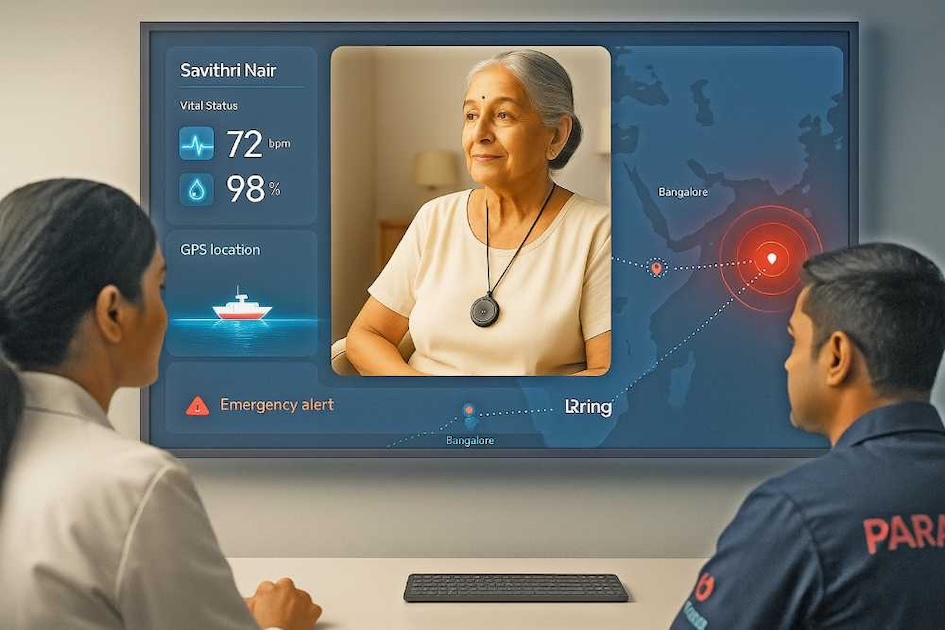
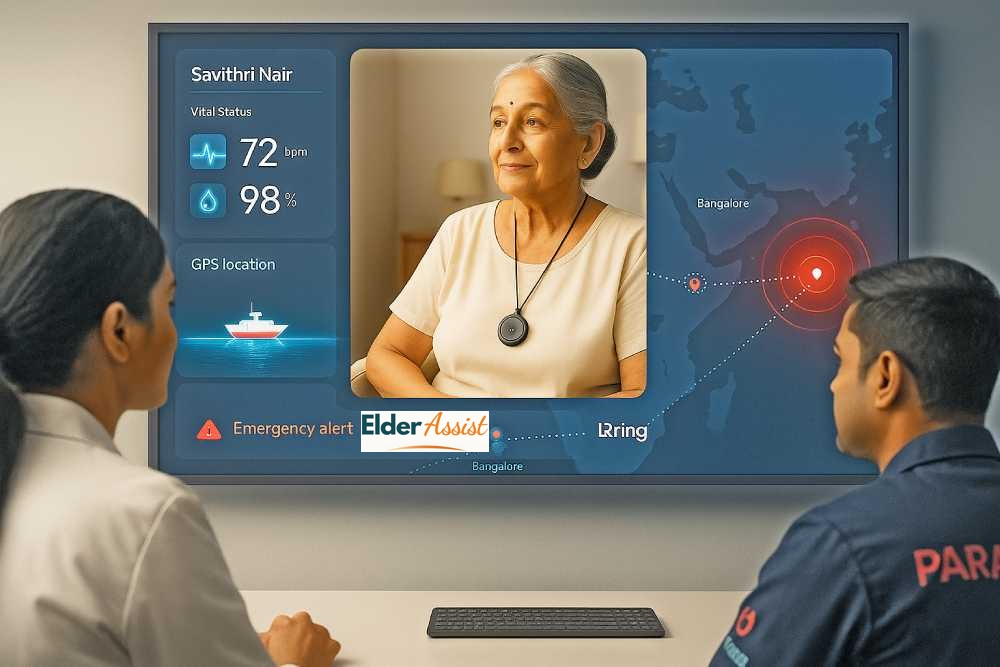
Fix: website page and images

diff --git a/wellnest/www/index.html b/wellnest/www/index.html
@@ -28,7 +28,7 @@
           <div
             class="item slider-four__slide-2"
             style="
-              background-image: url(assets/wellnest/images/main-slider/main-slider-2-1.jpg);
+              background-image: url('assets/wellnest/images/background/page-header-doctor-at-home.jpg');
             "
           >
             <div class="container">
@@ -40,7 +40,7 @@
           <div
             class="item slider-four__slide-3"
             style="
-              background-image: url(assets/wellnest/images/main-slider/main-slider-2-2.jpg);
+              background-image: url(assets/wellnest/images/background/page-header-hospice-care.jpg);
             "
           >
             <div class="container">
@@ -52,7 +52,7 @@
           <div
             class="item slider-four__slide-4"
             style="
-              background-image: url(assets/wellnest/images/main-slider/main-slider-2-3.jpg);
+              background-image: url(assets/wellnest/images/background/page-header-physiotherapy.jpg);
             "
           >
             <div class="container">

diff --git a/wellnest/templates/includes/navbar.html b/wellnest/templates/includes/navbar.html
@@ -20,9 +20,9 @@
         <ul class="main-nav__navigation-box" style="min-width: 665px">
           <li><a href="index">Home</a></li>
           <li class="dropdown active">
-            <a href="index#services-section">Care Services</a>
+            <a href="index#services-section">Services</a>
             <ul style="width: 260px">
-              <li class="active">
+              <li>
                 <a href="caregiver-attendant">Attendant Care</a>
               </li>
               <li>
@@ -63,10 +63,9 @@
       </div>
       <div class="main-nav__right img-fluid">
         <a href="#" class="side-menu__toggler"><i class="fa fa-bars"></i></a>
-        <a href="#" class="main-nav-one__cta">
-          <i class="oberlin-icon-whatsapp"></i>
-          <span>WhatsApp 'Hi'</span>
-          <b>6302693084</b>
+        <a href="#footer-section" class="main-nav-one__cta">
+          <i class="fa fa-download" alt="Get CareYogi App"></i>
+          <b>CareYogi</b>
         </a>
       </div>
     </div>

diff --git a/wellnest/public/js/custom.js b/wellnest/public/js/custom.js
@@ -7,9 +7,9 @@
         window.open('https://www.linkedin.com/company/wellnesthomecare/','_blank');
     });
 
-    $('.main-nav-one__cta').on('click', function() {
-        window.open('https://wa.me/+916302693084?text=hi','_blank');
-    });
+    // $('.main-nav-one__cta').on('click', function() {
+    //     window.open('https://wa.me/+916302693084?text=hi','_blank');
+    // });
 
     $('.fa.fa-map-marker-alt').on('click', function() {
         window.open('https://maps.app.goo.gl/TR4bSosJBP8mivDu5','_blank');

diff --git a/wellnest/www/elder-assist-program.html b/wellnest/www/elder-assist-program.html
@@ -624,7 +624,7 @@
 
             <div class="row justify-content-center">
                 <div class="col-md-3">
-                    <a href="contact-us/new/?requirement=Elder Assist" class="btn btn-primary mt-3">Send an Enquiry</a>
+                    <a href="contact-us/new/?requirement=Elder Assist" class="btn btn-primary mb-3">Send an Enquiry</a>
                 </div>
                 <div class="col-md-3">
                     <a href="tel:+919810918237"><i class="fas fa-phone fa-2x mb-2"></i></a>

diff --git a/wellnest/templates/includes/sidemenu.html b/wellnest/templates/includes/sidemenu.html
@@ -13,6 +13,9 @@
       <nav class="mobile-nav__container">
         <!-- content is loading via js -->
       </nav>
+      <p class="side-menu__social">
+        <a href="#footer-section"><i class="fa fas fa-mobile"></i>&ensp;Get CareYogi App</a>
+      </p>
       <p class="side-menu__block__copy">
         (c) 2024 <a href="#">CareYogi</a> - All rights reserved.
       </p>

diff --git a/wellnest/templates/includes/footer.html b/wellnest/templates/includes/footer.html
@@ -1,4 +1,4 @@
-<footer class="site-footer" id="contact-section">
+<footer class="site-footer" id="footer-section">
   <div class="site-footer__main">
     <div class="container">
       <div class="row">
